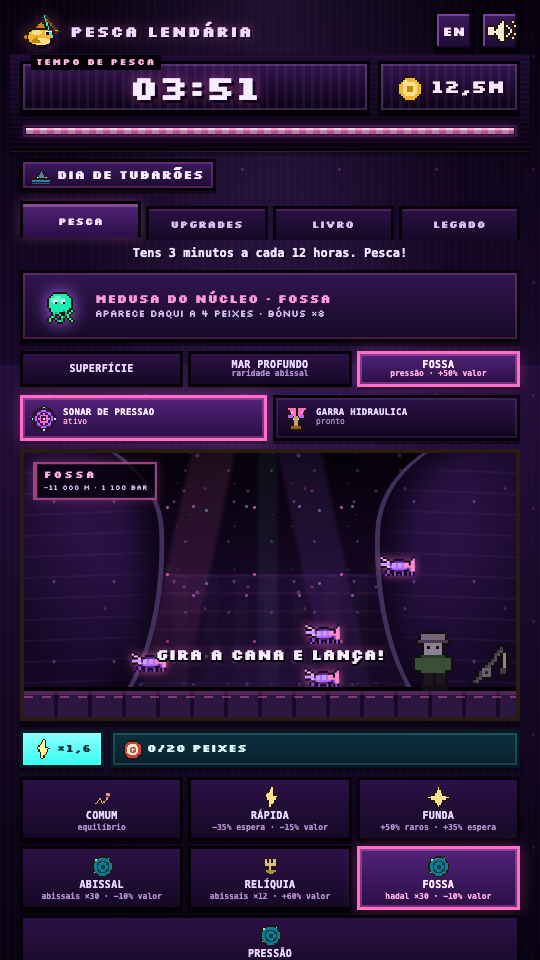
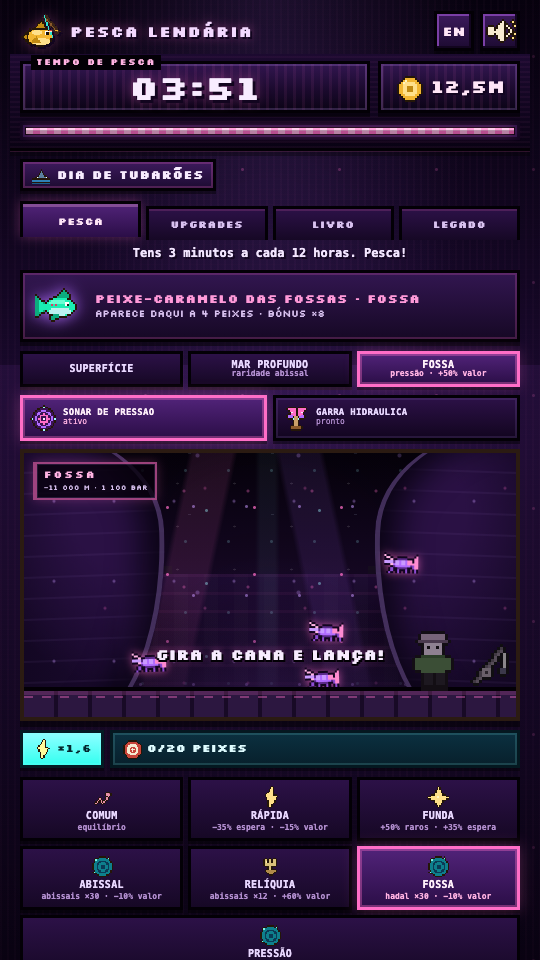
Troca a medusa hadal por peixe-caramelo
- A espécie medusa_do_nucleo passa a Peixe-Caramelo das Fossas.
- Mantém o id para compatibilidade com saves.
- Atualiza captura, versão 1.5.10 e changelog.

diff --git a/assets/js/data.js b/assets/js/data.js
@@ -86,7 +86,7 @@ const PEIXES = [
   { id:'raia_do_vazio',        nome:'Raia do Vazio', en:'Void Ray',                         emoji:'🐟', r:7, base:74 },
   { id:'celacanto_submersivel', nome:'Celacanto Submersível', en:'Submersible Coelacanth',  emoji:'🐟', r:7, base:76 },
   { id:'caranguejo_das_fumarolas', nome:'Caranguejo das Fumarolas', en:'Vent Crab',         emoji:'🦀', r:7, base:78 },
-  { id:'medusa_do_nucleo',     nome:'Medusa do Núcleo', en:'Core Jellyfish',                emoji:'🐙', r:7, base:80 },
+  { id:'medusa_do_nucleo',     nome:'Peixe-Caramelo das Fossas', en:'Hadal Snailfish',          emoji:'🐟', r:7, base:80 },
   { id:'leviata_de_pressao',   nome:'Leviatã de Pressão', en:'Pressure Leviathan',          emoji:'🐳', r:7, base:84 },
   { id:'dragao_das_fendas',    nome:'Dragão das Fendas', en:'Trench Dragon',                 emoji:'🐉', r:7, base:88 }
 ];

diff --git a/assets/js/updates.js b/assets/js/updates.js
@@ -6,9 +6,25 @@
    Carregado depois de data.js.
    ========================================================================== */
 
-const APP_VERSION = '1.5.9';
+const APP_VERSION = '1.5.10';
 
 const ATUALIZACOES = [
+  {
+    versao: '1.5.10',
+    data: '15/11/2026',
+    titulo: 'Peixe-caramelo',
+    tituloEn: 'Snailfish',
+    itens: [
+      'A Medusa do Núcleo deu lugar ao Peixe-Caramelo das Fossas.',
+      'É uma espécie hadal real, para a Fossa não ter alforrecas.',
+      'O id antigo mantém-se para não quebrar saves.'
+    ],
+    itensEn: [
+      'Core Jellyfish is now the Hadal Snailfish.',
+      'A real hadal species, so the Trench no longer has jellyfish.',
+      'The old id is kept so saves do not break.'
+    ]
+  },
   {
     versao: '1.5.9',
     data: '15/11/2026',

diff --git a/README.md b/README.md
@@ -12,7 +12,7 @@
   <img alt="HTML + CSS + JS" src="https://img.shields.io/badge/HTML%20%2B%20CSS%20%2B%20JS-vanilla-f2b632?style=flat-square">
   <img alt="Sem build" src="https://img.shields.io/badge/build-none-2ee6d6?style=flat-square">
   <img alt="PT / EN" src="https://img.shields.io/badge/lang-PT%20%7C%20EN-2f7fb5?style=flat-square">
-  <img alt="Versão 1.5.9" src="https://img.shields.io/badge/vers%C3%A3o-1.5.9-0e7f8c?style=flat-square">
+  <img alt="Versão 1.5.10" src="https://img.shields.io/badge/vers%C3%A3o-1.5.10-0e7f8c?style=flat-square">
 </p>
 
 <p align="center">
